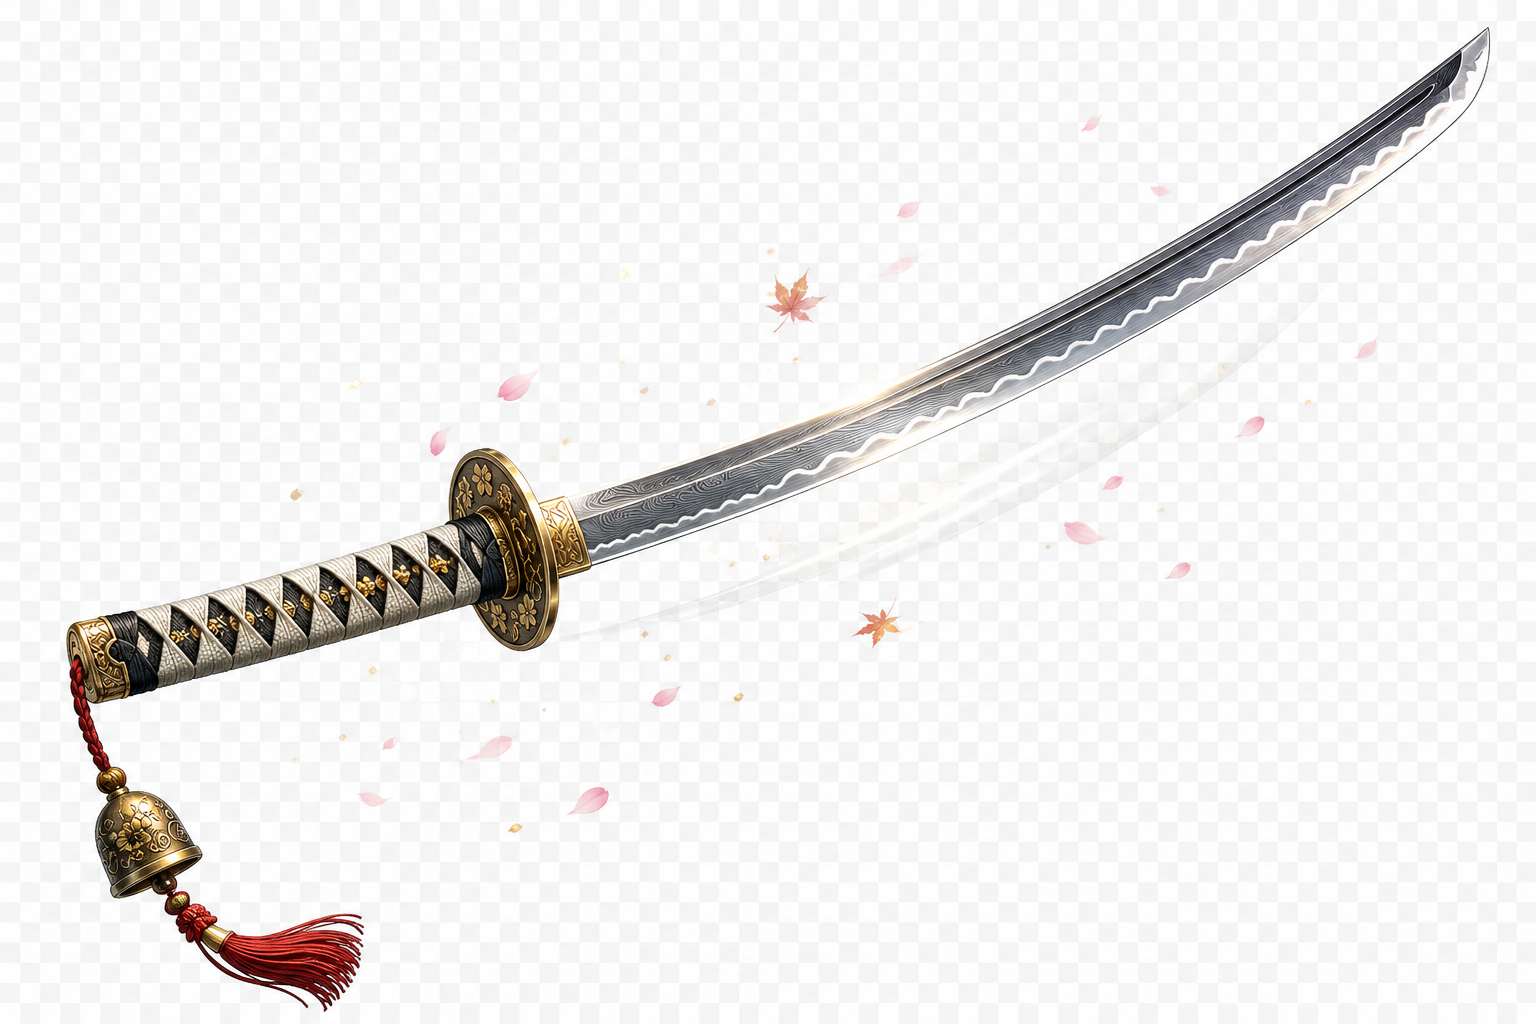
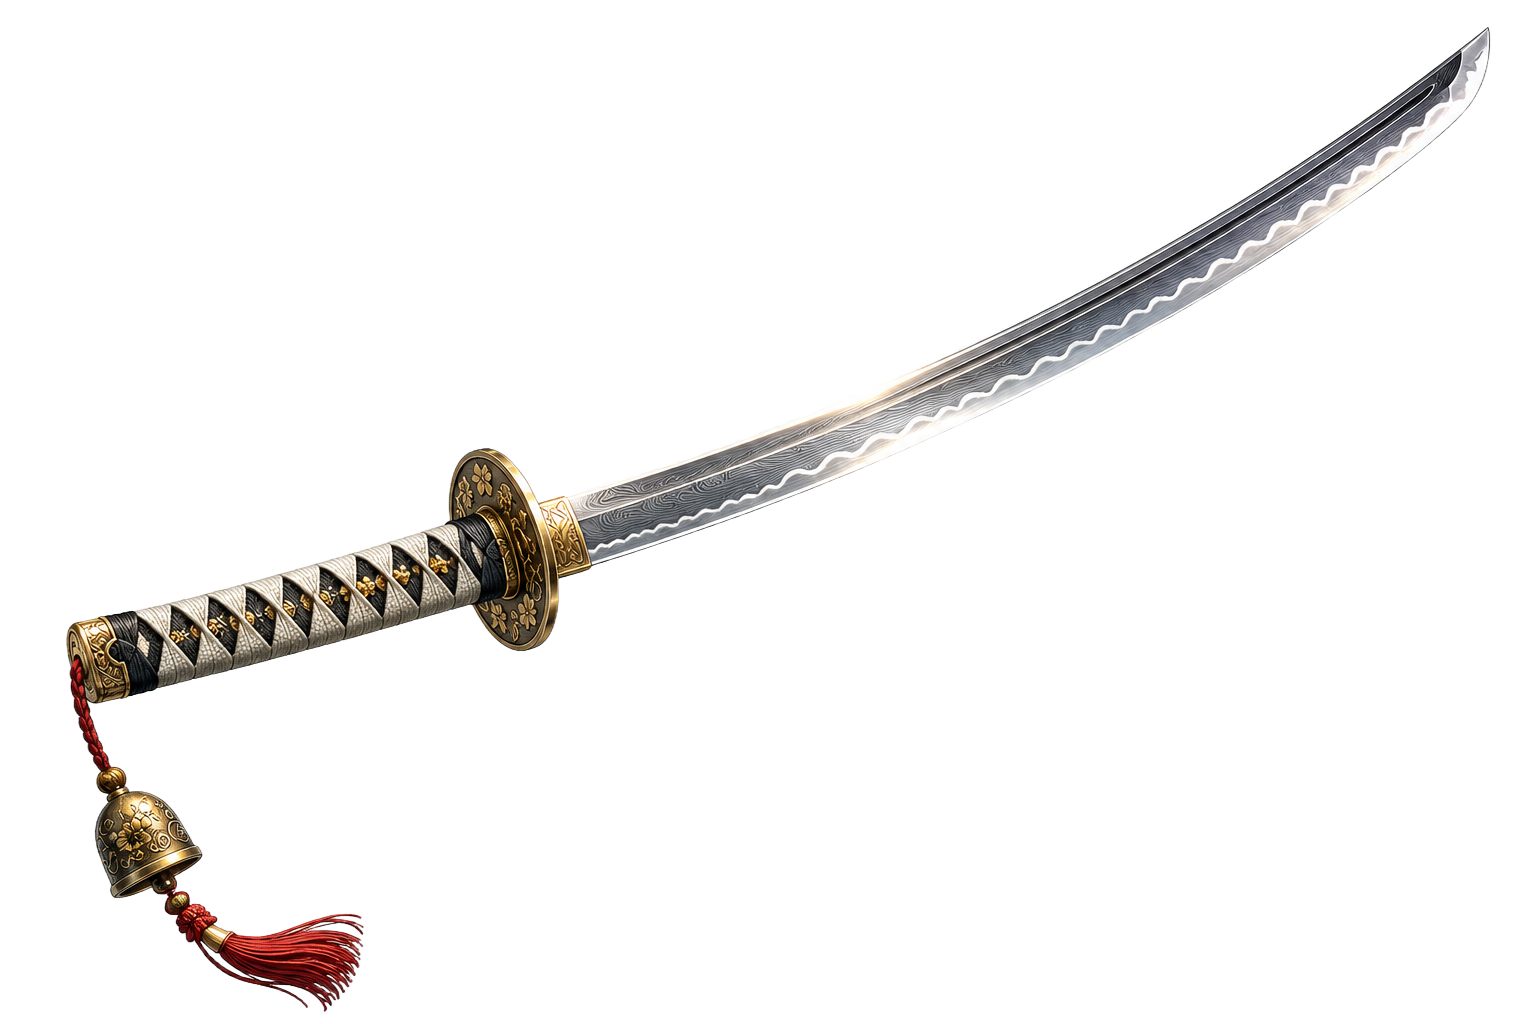
Update game engine with dojo gate asset wiring and refresh related game assets
Replit-Commit-Author: Agent

diff --git a/artifacts/fruit-blaster/src/game/engine/GameEngine.ts b/artifacts/fruit-blaster/src/game/engine/GameEngine.ts
@@ -656,6 +656,26 @@ export class GameEngine {
       }
     }
 
+    // Dojo Gate: the Grandmaster's Bell Katana follows the fingertip — ~20-25%
+    // larger than a standard blade per the zone's premium/powerful design goal.
+    if (this.mode === 'classic' && this.swordTrail.length > 0) {
+      const tip = this.swordTrail[0];
+      const prev = this.swordTrail[Math.min(3, this.swordTrail.length - 1)];
+      const swordImg = getDojoImage('grandmaster-bell-katana.png');
+      if (swordImg) {
+        const angle = Math.atan2(tip.y - prev.y, tip.x - prev.x) + Math.PI / 4;
+        const h = (200 / 1080) * this.height * 1.9 * 1.22;
+        const w = h * (swordImg.naturalWidth / swordImg.naturalHeight);
+        ctx.save();
+        ctx.translate(tip.x, tip.y);
+        ctx.rotate(angle);
+        ctx.shadowBlur = 22;
+        ctx.shadowColor = 'rgba(255,215,160,0.8)';
+        ctx.drawImage(swordImg, -w * 0.15, -h * 0.85, w, h);
+        ctx.restore();
+      }
+    }
+
     // Draw Sword Trail
     if (this.swordTrail.length > 1) {
       ctx.save();
@@ -690,8 +710,9 @@ export class GameEngine {
         : this.mode === 'moon' ? 'rgba(190,215,255,0.6)'
         : this.mode === 'challenge' ? 'rgba(255,120,60,0.6)'
         : this.mode === 'survival' ? 'rgba(255,225,150,0.65)'
+        : this.mode === 'classic' ? 'rgba(255,215,160,0.6)'
         : '#ffffff';
-      ctx.lineWidth = (this.mode === 'bamboo' || this.mode === 'moon' || this.mode === 'challenge' || this.mode === 'survival') ? 2 : 3;
+      ctx.lineWidth = (this.mode === 'bamboo' || this.mode === 'moon' || this.mode === 'challenge' || this.mode === 'survival' || this.mode === 'classic') ? 2 : 3;
       ctx.stroke();
       
       ctx.restore();

diff --git a/.agents/memory/dojo-gate-asset-wiring.md b/.agents/memory/dojo-gate-asset-wiring.md
@@ -1,0 +1,10 @@
+---
+name: Dojo Gate katana asset was unwired
+description: Fruit Blaster's Dojo Gate ("classic" mode) had a grandmaster-bell-katana.png asset sitting in public/dojo/ but no code ever drew it — every other world (bamboo/moon/challenge/survival) has its own sword-drawing block in GameEngine.ts, classic didn't.
+---
+
+Presence of a themed asset file in `public/<theme>/` does not mean it's wired into gameplay — check `GameEngine.ts` for a matching `this.mode === '<mode>'` sword/sprite draw block before assuming a themed weapon/sprite renders.
+
+**Why:** Dojo Gate's katana image existed on disk (and even matched a user-uploaded reference image) but was invisible in actual play; only fixing the image (removing its white background) wouldn't have surfaced in-game without also adding the render block.
+
+**How to apply:** When asked to fix/replace a themed sprite (fruit, weapon, hazard), grep `GameEngine.ts` for the mode string to confirm a draw call actually references that file, not just that the file exists in `GameData.ts`/`public/`.

diff --git a/.agents/memory/MEMORY.md b/.agents/memory/MEMORY.md
@@ -2,3 +2,4 @@
 - [Artifact registration gap](artifact-registration.md) — listArtifacts()=[] despite artifact.toml on disk; fix by round-tripping through verifyAndReplaceArtifactToml (no createArtifact needed)
 - [Particle type rendering gap](particle-type-rendering.md) — Particle.type union in GameTypes.ts is decoupled from GameEngine.draw()'s render cases; new types are silently invisible until drawn
 - [Moon Shrine slash quality](moon-shrine-slash-quality.md) — "clean/perfect" slice detection must use sword-trail speed, not fruit velocity, or scoring/buffs desync from actual player input
+- [Dojo Gate katana asset was unwired](dojo-gate-asset-wiring.md) — a themed sprite existing in public/<theme>/ doesn't mean GameEngine.ts actually draws it; check for the mode-specific draw block